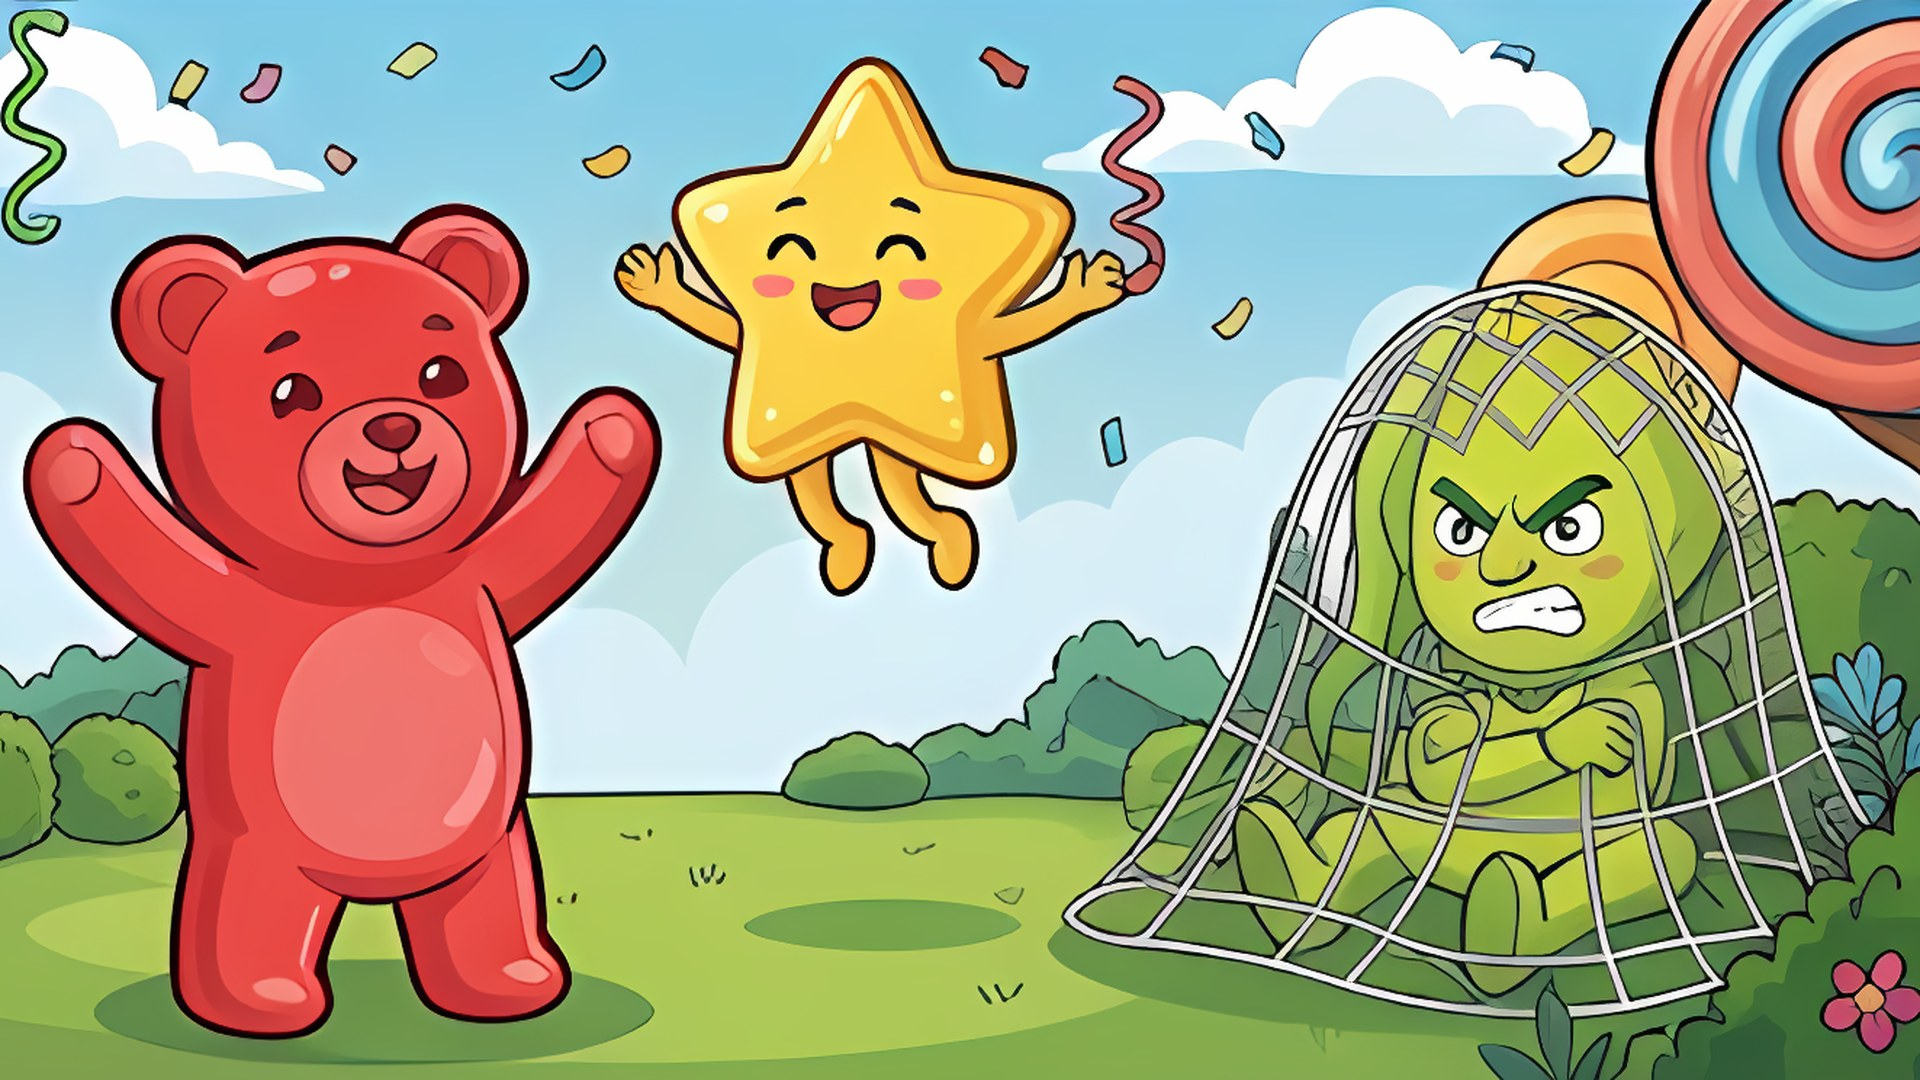
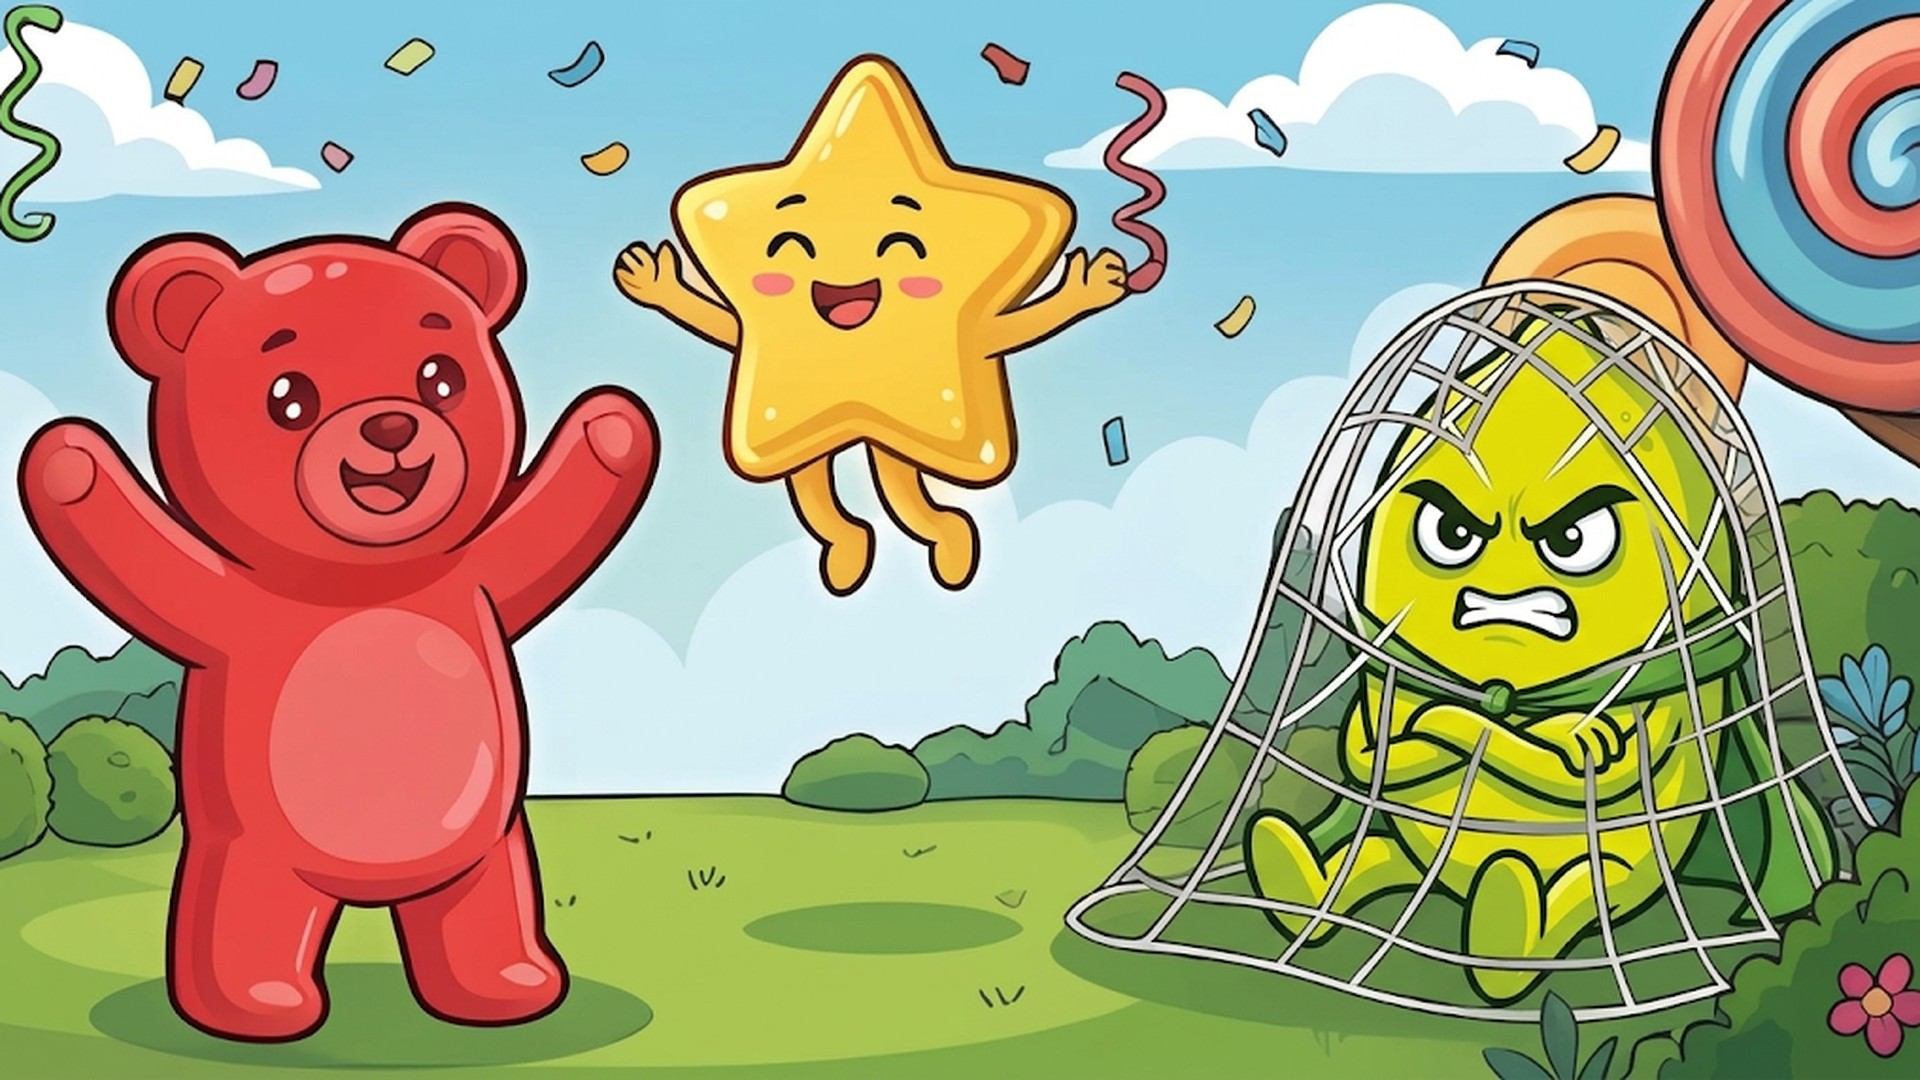
Agrega las imágenes de los hechizos y la nueva escena final de Dulces

diff --git a/juego/nucleo/hechizos.js b/juego/nucleo/hechizos.js
@@ -6,16 +6,29 @@
 // Efecto de cada amenaza, en el orden de los capítulos (los textos están en distractors.voices.amenaza de cada mundo)
 const THREAT_FX = {
   heroes:  ['takeover', 'stamp', 'smoke', 'dark', 'seal'],
-  fantasy: ['kidnap', 'vines', 'freeze', 'seal', 'fire'],
+  fantasy: ['kidnap', 'vines', 'freeze', 'seal', 'fire'],   // plantas, paredes: ver PLANT y WALL
   kingdom: ['dark', 'mess:escoba_magica', 'mess:libro_volador', 'seal', 'takeover'],
   space:   ['takeover', 'meteors', 'dark', 'freeze', 'seal'],
   ocean:   ['dark', 'ink', 'vines', 'ink', 'seal'],
   dinos:   ['kidnap', 'flood', 'fire', 'dark', 'seal'],
   robots:  ['glitch', 'glitch', 'dark', 'glitch', 'dark'],
   jungle:  ['hypno', 'kidnap', 'vines', 'steal', 'seal'],
-  candy:   ['sour', 'sour', 'fire', 'takeover', 'seal']
+  candy:   ['sour', 'sour', 'melt', 'takeover', 'seal']
 };
 const THREAT_MS = 5500;   // cuánto dura el efecto
+// Qué planta crece y qué pared cierra en cada mundo (imágenes comunes de assets/comunes/hechizos)
+const PLANT = { ocean: 'hz_alga', jungle: 'hz_liana' };   // los demás: enredadera con flores
+const WALL = { space: 'hz_wall_metal', robots: 'hz_wall_metal', candy: 'hz_wall_metal', heroes: 'hz_wall_brick', kingdom: 'hz_wall_brick' };   // los demás: roca
+const has = (scene, k) => scene.textures.exists(k);
+// imagen que entra desde fuera de la pantalla hasta su sitio (x, y), detrás de los objetos del juego
+function slideIn(scene, objs, key, x, y, w, h, from, delay) {
+  const img = scene.add.image(x, y, key).setDepth(-2).setDisplaySize(w, h);
+  objs.push(img);
+  const to = { x: img.x, y: img.y };
+  img.x += from.x || 0; img.y += from.y || 0;
+  scene.tweens.add({ targets: img, x: to.x, y: to.y, duration: 700, delay: delay || 0, ease: 'Sine.easeOut' });
+  return img;
+}
 
 function runThreatFx(scene, chapterIdx) {
   const list = THREAT_FX[scene.themeKey];
@@ -53,6 +66,16 @@ const THREAT_DRAW = {
   // se congela: tinte celeste y escarcha que crece por abajo y por los lados
   freeze(scene, objs) {
     tint(scene, objs, 0xbae6fd, 0.35);
+    if (has(scene, 'hz_ice_top')) {
+      slideIn(scene, objs, 'hz_ice_top', GAME_W / 2, 30, GAME_W + 20, 90, { y: -100 });
+      slideIn(scene, objs, 'hz_ice_floor', GAME_W / 2, GAME_H - 22, GAME_W + 20, 60, { y: 80 });
+      [[45, 170], [GAME_W - 45, 230], [50, 380], [GAME_W - 50, 420]].forEach(([x, y], i) => {
+        const c = fit(scene.add.image(x, y, 'hz_crystal_' + (i % 3 + 1)), 70).setDepth(-2);
+        const sc = c.scale; c.setScale(0); objs.push(c);
+        scene.tweens.add({ targets: c, scale: sc, duration: 400, delay: 300 + i * 150, ease: 'Back.easeOut' });
+      });
+      return;
+    }
     for (let i = 0; i < 14; i++) {
       const bottom = i < 8, x = bottom ? Phaser.Math.Between(0, GAME_W) : edgeX(), y = bottom ? GAME_H - Phaser.Math.Between(0, 30) : Phaser.Math.Between(80, 480);
       const c = scene.add.star(x, y, 6, 6, Phaser.Math.Between(16, 30), 0xffffff, 0.85).setStrokeStyle(2, 0x7dd3fc).setDepth(-2).setScale(0);
@@ -63,6 +86,16 @@ const THREAT_DRAW = {
   // fuego o calor: resplandor naranja desde abajo y chispas que suben
   fire(scene, objs) {
     tint(scene, objs, 0xea580c, 0.25);
+    if (has(scene, 'hz_fire_wall')) {
+      const wall = slideIn(scene, objs, 'hz_fire_wall', GAME_W / 2, GAME_H - 35, GAME_W + 40, 90, { y: 100 });
+      scene.tweens.add({ targets: wall, scaleY: wall.scaleY * 1.12, duration: 260, yoyo: true, repeat: -1, delay: 700 });
+      [[40, 200], [GAME_W - 40, 260], [45, 360], [GAME_W - 45, 400]].forEach(([x, y], i) => {
+        const f = fit(scene.add.image(x, y, 'hz_fire_' + (i % 2 + 1)), 60).setDepth(-2).setOrigin(0.5, 1);
+        const sc = f.scale; f.setScale(0); objs.push(f);
+        scene.tweens.add({ targets: f, scale: sc, duration: 300, delay: 400 + i * 150,
+          onComplete: () => scene.tweens.add({ targets: f, scaleY: sc * 1.15, duration: 200, yoyo: true, repeat: -1 }) });
+      });
+    }
     const glow = scene.add.rectangle(0, GAME_H, GAME_W, 120, 0xf97316, 0.45).setOrigin(0, 1).setDepth(-3);
     objs.push(glow);
     scene.tweens.add({ targets: glow, alpha: 0.25, duration: 400, yoyo: true, repeat: -1 });
@@ -77,9 +110,11 @@ const THREAT_DRAW = {
   ink(scene, objs) {
     tint(scene, objs, 0x1e1b4b, 0.25);
     [[0, 0], [GAME_W, 0], [0, GAME_H], [GAME_W, GAME_H]].forEach(([x, y], i) => {
-      const b = scene.add.circle(x, y, 150, 0x1e1b4b, 0.8).setDepth(-2).setScale(0);
+      const b = has(scene, 'hz_ink') ? fit(scene.add.image(x, y, 'hz_ink'), 380).setAlpha(0.9).setFlipX(i % 2 === 1)
+        : scene.add.circle(x, y, 150, 0x1e1b4b, 0.8);
+      const sc = b.scale; b.setDepth(-2).setScale(0);
       objs.push(b);
-      scene.tweens.add({ targets: b, scale: 1, duration: 800, delay: i * 150, ease: 'Back.easeOut' });
+      scene.tweens.add({ targets: b, scale: sc, duration: 800, delay: i * 150, ease: 'Back.easeOut' });
     });
   },
   // todo se vuelve agrio: tinte amarillo verdoso y gotas de limón por los bordes
@@ -117,6 +152,18 @@ const THREAT_DRAW = {
   },
   // enredaderas o algas que crecen desde abajo por los bordes
   vines(scene, objs) {
+    const plant = PLANT[scene.themeKey] || 'hz_vine';
+    if (has(scene, plant)) {
+      [35, 100, GAME_W - 100, GAME_W - 35].forEach((x, i) => {
+        const img = scene.add.image(x, GAME_H, plant).setOrigin(0.5, 1).setDepth(-2);
+        img.setScale(Phaser.Math.FloatBetween(0.75, 0.9) * GAME_H / img.height).setFlipX(i >= 2);
+        objs.push(img);
+        img.y = GAME_H + img.displayHeight;
+        scene.tweens.add({ targets: img, y: GAME_H, duration: 1200, delay: i * 150, ease: 'Sine.easeOut',
+          onComplete: () => scene.tweens.add({ targets: img, angle: i % 2 ? 3 : -3, duration: 900, yoyo: true, repeat: -1 }) });
+      });
+      return;
+    }
     [40, 110, GAME_W - 110, GAME_W - 40].forEach((x, i) => {
       const g = scene.add.graphics().setDepth(-2);
       g.lineStyle(10, 0x15803d, 1);
@@ -132,6 +179,12 @@ const THREAT_DRAW = {
   // se cierra: paredes de piedra entran por los dos lados
   seal(scene, objs) {
     tint(scene, objs, 0x0f172a, 0.3);
+    const wall = WALL[scene.themeKey] || 'hz_wall_rock';
+    if (has(scene, wall)) {
+      [0, 1].forEach(side => slideIn(scene, objs, wall, side ? GAME_W - 60 : 60, GAME_H / 2, 120, GAME_H + 10, { x: side ? 140 : -140 }).setFlipX(side === 1));
+      scene.time.delayedCall(650, () => scene.cameras.main.shake(200, 0.003));
+      return;
+    }
     [0, 1].forEach(side => {
       const g = scene.add.graphics().setDepth(-2);
       g.fillStyle(0x57534e, 1); g.fillRect(0, 0, 90, GAME_H);
@@ -190,10 +243,32 @@ const THREAT_DRAW = {
   },
   // inundación: el agua sube desde abajo
   flood(scene, objs) {
+    if (has(scene, 'hz_water')) {
+      const w = scene.add.image(GAME_W / 2, GAME_H + 80, 'hz_water').setDepth(-2).setDisplaySize(GAME_W + 40, 160).setAlpha(0.9);
+      objs.push(w);
+      scene.tweens.add({ targets: w, y: GAME_H - 60, duration: 1200, ease: 'Sine.easeOut', onComplete: () =>
+        scene.tweens.add({ targets: w, y: GAME_H - 48, x: GAME_W / 2 + 12, duration: 700, yoyo: true, repeat: -1 }) });
+      return;
+    }
     const w = scene.add.rectangle(0, GAME_H, GAME_W, 130, 0x38bdf8, 0.45).setOrigin(0, 0).setDepth(-2);
     objs.push(w);
     scene.tweens.add({ targets: w, y: GAME_H - 130, duration: 1200, ease: 'Sine.easeOut', onComplete: () =>
       scene.tweens.add({ targets: w, y: GAME_H - 118, duration: 600, yoyo: true, repeat: -1 }) });
+  },
+  // se derrite: el helado chorrea desde arriba y deja un charco abajo (si faltan las imágenes, calor)
+  melt(scene, objs) {
+    if (!has(scene, 'hz_melt')) return THREAT_DRAW.fire(scene, objs);
+    tint(scene, objs, 0xfbcfe8, 0.25);
+    const top = scene.add.image(GAME_W / 2, 0, 'hz_melt').setOrigin(0.5, 0).setDepth(-2).setDisplaySize(GAME_W + 20, 150);
+    objs.push(top);
+    top.y = -150;
+    scene.tweens.add({ targets: top, y: 0, duration: 900, ease: 'Sine.easeOut',
+      onComplete: () => scene.tweens.add({ targets: top, displayHeight: 185, duration: 1800 }) });
+    [160, GAME_W - 160].forEach((x, i) => {
+      const p = fit(scene.add.image(x, GAME_H - 25, 'hz_melt_puddle'), 260).setDepth(-2);
+      const sc = p.scale; p.setScale(0); objs.push(p);
+      scene.tweens.add({ targets: p, scale: sc, duration: 900, delay: 800 + i * 200 });
+    });
   },
   // humo gris que cubre los bordes
   smoke(scene, objs) {

diff --git a/assets/manifest.js b/assets/manifest.js
@@ -350,6 +350,25 @@ window.ASSETS = {
   },
   // Objetos e íconos que comparten todos los mundos (carpeta assets/comunes)
   comunes: {
+    // hechizos de los villanos (juego/nucleo/hechizos.js): si falta alguno, se dibuja con formas simples
+    hz_ice_top: 'comunes/hechizos/hielo_arriba.png',
+    hz_ice_floor: 'comunes/hechizos/hielo_suelo.png',
+    hz_crystal_1: 'comunes/hechizos/cristal_1.png',
+    hz_crystal_2: 'comunes/hechizos/cristal_2.png',
+    hz_crystal_3: 'comunes/hechizos/cristal_3.png',
+    hz_fire_wall: 'comunes/hechizos/fuego_muro.png',
+    hz_fire_1: 'comunes/hechizos/fuego_1.png',
+    hz_fire_2: 'comunes/hechizos/fuego_2.png',
+    hz_melt: 'comunes/hechizos/helado_chorrea.png',
+    hz_melt_puddle: 'comunes/hechizos/helado_charco.png',
+    hz_vine: 'comunes/hechizos/enredadera.png',
+    hz_alga: 'comunes/hechizos/alga.png',
+    hz_liana: 'comunes/hechizos/liana.png',
+    hz_wall_rock: 'comunes/hechizos/pared_roca.png',
+    hz_wall_brick: 'comunes/hechizos/pared_ladrillo.png',
+    hz_wall_metal: 'comunes/hechizos/pared_metal.png',
+    hz_water: 'comunes/hechizos/agua.png',
+    hz_ink: 'comunes/hechizos/nube_tinta.png',
     basket:      'comunes/canasta.png',          // minijuego Atrapa
     net:         'comunes/red.png',              // atrapar al villano
     fireball:    'comunes/bola_de_fuego.png',    // poder de Chispa

diff --git a/GUIA_CSV.md b/GUIA_CSV.md
@@ -169,5 +169,5 @@ y luego vuelve a la normalidad. Pasa detrás de los objetos del juego y queda co
 `dark` (se apagan las luces), `freeze` (hielo), `fire` (fuego o calor), `ink` (tinta), `sour` (todo agrio), `glitch` (falla de
 computador), `hypno` (espirales), `vines` (enredaderas o algas), `seal` (paredes que cierran los lados), `meteors` (lluvia de
 rocas), `stamp` (marcas del villano), `mess_<cosa>` (cosas volando), `steal` (roba el tesoro), `kidnap` (se lleva al
-personaje), `takeover` (el fondo se tiñe con su color), `flood` (sube el agua), `smoke` (humo).
+personaje), `takeover` (el fondo se tiñe con su color), `flood` (sube el agua), `smoke` (humo), `melt` (el helado se derrite).
 
